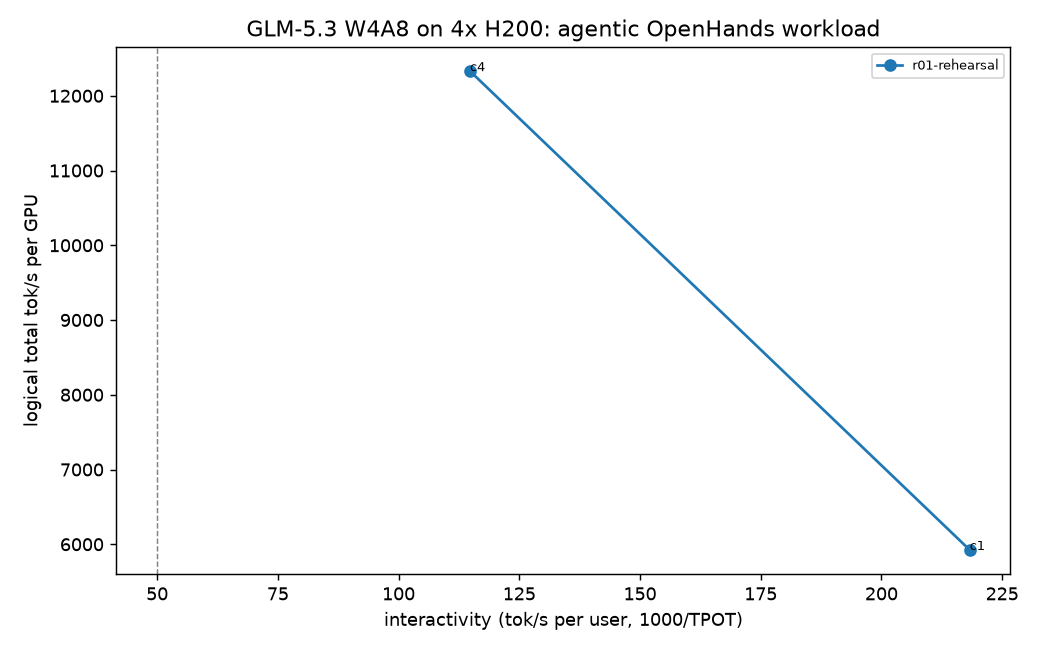
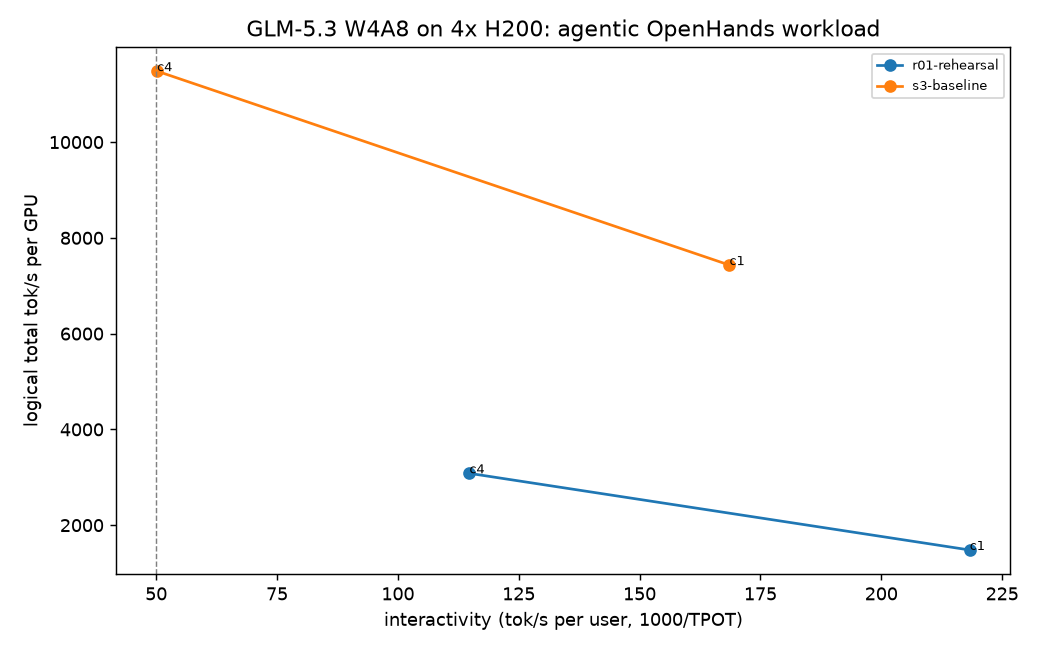
Reorder ladder: L3 MTP schedule before L2 offload (per-user speed binds at c=4, KV has headroom)

diff --git a/evals/report.py b/evals/report.py
@@ -18,6 +18,11 @@ ROOT = os.path.dirname(os.path.dirname(os.path.abspath(__file__)))
 RAW = os.path.join(ROOT, "results", "raw")
 
 
+def live(paths):
+    """Skip quarantined runs (results/raw/<pod>/x-*), e.g. benchmarks that ran against a crashed server."""
+    return [p for p in paths if not os.path.basename(os.path.dirname(p)).startswith("x-") and "/x-" not in p]
+
+
 def load(p):
     try:
         with open(p) as f:
@@ -35,7 +40,7 @@ def pct(rows, key, p):
 
 def agentic_rows(price, gpus):
     out = []
-    for s in sorted(glob.glob(f"{RAW}/*/*/evalscope/*/parallel_*_number_*/benchmark_summary.json")):
+    for s in live(sorted(glob.glob(f"{RAW}/*/*/evalscope/*/parallel_*_number_*/benchmark_summary.json"))):
         parts = s.split(os.sep)
         pod, step, name = parts[-6], parts[-5], parts[-3]
         summ, perc = load(s), load(s.replace("benchmark_summary.json", "benchmark_percentile.json"))
@@ -64,9 +69,9 @@ def agentic_rows(price, gpus):
 
 def reference_rows(price, gpus):
     out = []
-    for p in sorted(glob.glob(f"{RAW}/*/*/ref_c*.json")):
+    for p in live(sorted(glob.glob(f"{RAW}/*/*/ref_c*.json"))):
         r = load(p)
-        if not r or "median_ttft_ms" not in r:
+        if not r or "median_ttft_ms" not in r or not r.get("median_tpot_ms"):
             continue
         parts = p.split(os.sep)
         m = load(p.replace(".json", ".metrics.json")) or {}
@@ -89,7 +94,7 @@ def table(rows, cols):
 
 def quality_rows():
     out = []
-    for p in sorted(glob.glob(f"{RAW}/*/*/*.json")):
+    for p in live(sorted(glob.glob(f"{RAW}/*/*/*.json"))):
         name = os.path.basename(p)
         if name not in ("gsm8k.json", "toolcalls.json", "niah.json", "gpqa.json", "mtp_al.json", "apply.json"):
             continue
@@ -111,7 +116,7 @@ def quality_rows():
         elif name == "apply.json":
             row["result"] = f"restart to ready {r.get('restart_to_ready_s')} s"
         out.append(row)
-    for p in sorted(glob.glob(f"{RAW}/*/*/boot_facts.txt")):
+    for p in live(sorted(glob.glob(f"{RAW}/*/*/boot_facts.txt"))):
         parts = p.split(os.sep)
         kv = [l.split("] ", 1)[-1].strip() for l in open(p) if "GPU KV cache size" in l]
         if kv:

diff --git a/results/REPORT_DATA.md b/results/REPORT_DATA.md
@@ -1,21 +1,24 @@
 # Report data (generated by evals/report.py; do not edit)
-Price $0.59/hr, 1 GPUs. SLO: TTFT p50 <= 5 s, interactivity >= 50 tok/s, zero failures.
+Price $21.16/hr, 4 GPUs. SLO: TTFT p50 <= 5 s, interactivity >= 50 tok/s, zero failures.
 
 ## Agentic (OpenHands multi-turn, EvalScope)
 | step | c | requests | failed | ttft_p50_ms | ttft_p90_ms | tpot_ms | interactivity | out_tok_s | total_tok_s_per_gpu | kv_hit_pct | prefix_hit | mtp_al | decoded_per_iter | preemptions | slo_ok | usd_per_session_hr | usd_per_m_out |
 |---|---|---|---|---|---|---|---|---|---|---|---|---|---|---|---|---|---|
-| r01-rehearsal | 1 | 12 | 0 | 92.64 | 211.63 | 4.58 | 218.3 | 194.3204 | 5923 | 64.9449 | 0.6494 |  | 1.0067 | 0.0 | True | 0.59 | 0.84 |
-| r01-rehearsal | 4 | 24 | 0 | 190.03 | 548.86 | 8.71 | 114.8 | 404.3194 | 12329 | 64.9658 | 0.6496 |  | 1.0072 | 0.0 | True | 0.15 | 0.41 |
+| r01-rehearsal | 1 | 12 | 0 | 92.64 | 211.63 | 4.58 | 218.3 | 194.3204 | 1481 | 64.9449 | 0.6494 |  | 1.0067 | 0.0 | True | 21.16 | 30.25 |
+| r01-rehearsal | 4 | 24 | 0 | 190.03 | 548.86 | 8.71 | 114.8 | 404.3194 | 3082 | 64.9658 | 0.6496 |  | 1.0072 | 0.0 | True | 5.29 | 14.54 |
+| s3-baseline | 1 | 52 | 0 | 428.59 | 484.84 | 5.93 | 168.6 | 81.6755 | 7431 | 91.7517 | 0.9175 | 3.802 | 3.8024 | 0.0 | True | 21.16 | 71.97 |
+| s3-baseline | 4 | 104 | 0 | 503.65 | 745.37 | 19.92 | 50.2 | 126.3797 | 11481 | 91.7644 | 0.9176 | 3.752 | 3.7598 | 0.0 | True | 5.29 | 46.51 |
 
 ## Max sessions at SLO per step
 | step | max_sessions_at_slo | usd_per_session_hr |
 |---|---|---|
-| r01-rehearsal | 4 | 0.15 |
+| r01-rehearsal | 4 | 5.29 |
+| s3-baseline | 4 | 5.29 |
 
 ## Reference shape (random 8192/1024, vllm bench serve)
 | step | c | n | failed | ttft_p50_ms | ttft_p90_ms | tpot_p50_ms | tpot_p90_ms | interactivity | out_tok_s | total_tok_s_per_gpu | goodput_rps | mtp_al | usd_per_m_out |
 |---|---|---|---|---|---|---|---|---|---|---|---|---|---|
-| r01-rehearsal | 1 | 8 | 0 | 289 | 328 | 5.17 | 5.19 | 193.3 | 184 | 1655 | 0.18 |  | 0.89 |
+| r01-rehearsal | 1 | 8 | 0 | 289 | 328 | 5.17 | 5.19 | 193.3 | 184 | 414 | 0.18 |  | 31.97 |
 
 ## Quality, MTP acceptance, restarts, KV capacity
 | step | file | result |
@@ -23,6 +26,15 @@ Price $0.59/hr, 1 GPUs. SLO: TTFT p50 <= 5 s, interactivity >= 50 tok/s, zero fa
 | r01-rehearsal | niah.json | 15834 tok d=0.5 found=True ttft=0.72s prefill=21977 tok/s decode=158.7 tok/s |
 | r01-rehearsal | toolcalls.json | 36/46 gate=False info={'info_empty_props_oneof_glm5_169': True, 'info_empty_props_oneof_glm5_169/stream': True} |
 | r02-rehearsal-fixes | gsm8k.json | acc 0.8 n=20 gate=False tokens=1701 |
-| r01-rehearsal | boot_facts | CUDA graph memory profiling is enabled (default since v0.21.0). The current --gpu-memory-utilization=0.9200 is equivalent to --gpu-memory-utilization=0.9128 without CUDA graph memory profiling. To maintain the same effective KV cache size as before, increase --gpu-memory-utilization to 0.9272. To disable, set VLLM_MEMORY_PROFILER_ESTIMATE_CUDAGRAPHS=0. / GPU KV cache size: 362,096 tokens, Maximum concurrency for 32,768 tokens per request: 11.05x |
+| s1e-apply-b2 | apply.json | restart to ready 286 s |
+| s1f-apply-b4 | apply.json | restart to ready 277 s |
+| s2-quality | gsm8k.json | acc 0.9674 n=1319 gate=True tokens=144 |
+| s2-quality | mtp_al.json | AL 2.94951651387668 rate 64.98388379588931 tpot 14.19 ms |
+| s2-quality | niah.json | 130578 tok d=0.1 found=True ttft=23.36s prefill=5591 tok/s decode=120.0 tok/s; 130543 tok d=0.5 found=True ttft=23.29s prefill=5605 tok/s decode=156.9 tok/s; 130574 tok d=0.9 found=True ttft=23.27s prefill=5611 tok/s decode=147.3 tok/s; 204350 tok d=0.1 found=True ttft=37.32s prefill=5475 tok/s decode=137.8 tok/s; 204296 tok d=0.5 found=True ttft=37.23s prefill=5487 tok/s decode=130.8 tok/s; 204325 tok d=0.9 found=True ttft=37.28s prefill=5481 tok/s decode=130.5 tok/s |
+| s2-quality | toolcalls.json | 37/46 gate=False info={'info_empty_props_oneof_glm5_169': False, 'info_empty_props_oneof_glm5_169/stream': False} |
+| s2b-toolcalls-typed | toolcalls.json | 48/48 gate=True info={'info_untyped_json_null': False, 'info_untyped_json_null/stream': False, 'info_untyped_json_number': False, 'info_untyped_json_number/stream': False, 'info_untyped_json_bool': False, 'info_untyped_json_bool/stream': False, 'info_untyped_json_nested': False, 'info_untyped_json_nested/stream': False, 'info_markers_in_prose_vllm_64326': False, 'info_markers_in_prose_vllm_64326/stream': True, 'info_empty_props_oneof_glm5_169': False, 'info_empty_props_oneof_glm5_169/stream': False} |
+| r01-rehearsal | boot_facts | GPU KV cache size: 362,096 tokens, Maximum concurrency for 32,768 tokens per request: 11.05x |
+| s1e-apply-b2 | boot_facts | GPU KV cache size: 895,232 tokens, Maximum concurrency for 262,144 tokens per request: 3.42x |
+| s1f-apply-b4 | boot_facts | GPU KV cache size: 1,042,944 tokens, Maximum concurrency for 262,144 tokens per request: 3.98x |
 
 ![pareto](pareto.png)
